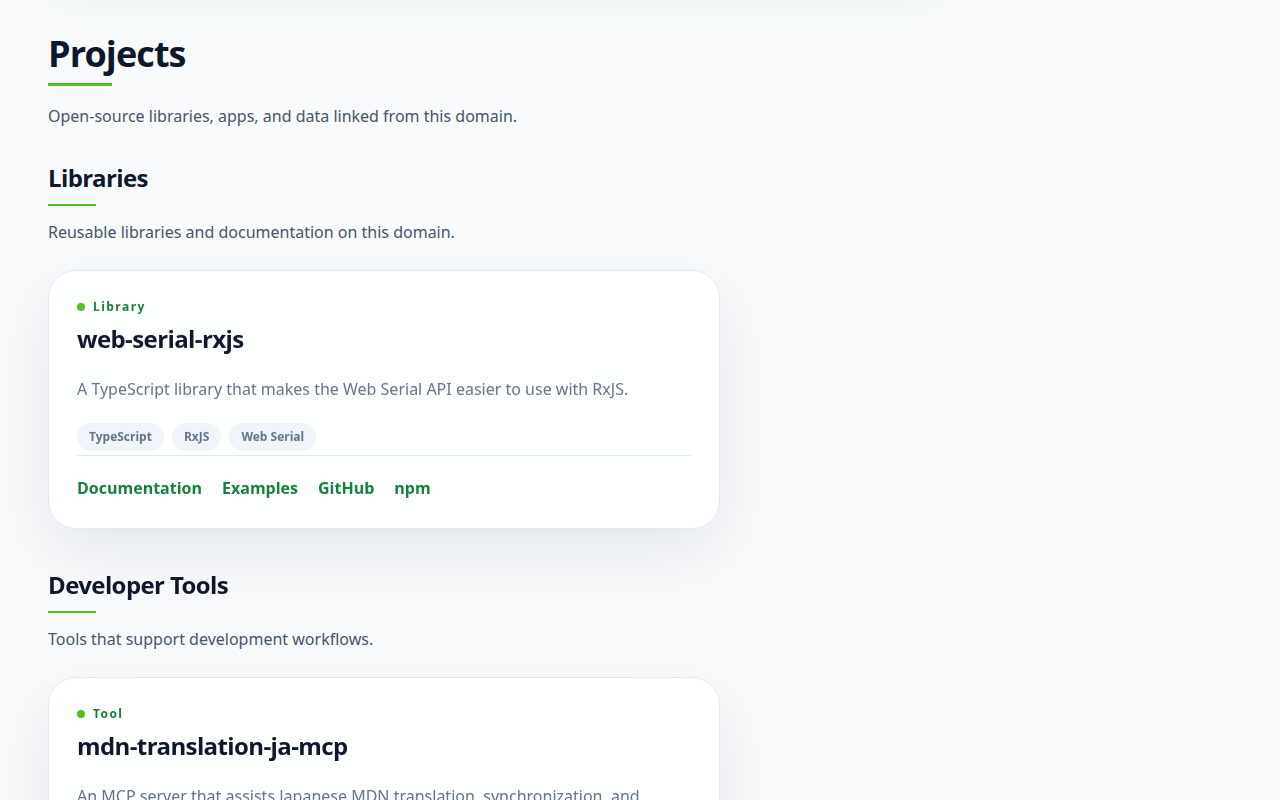
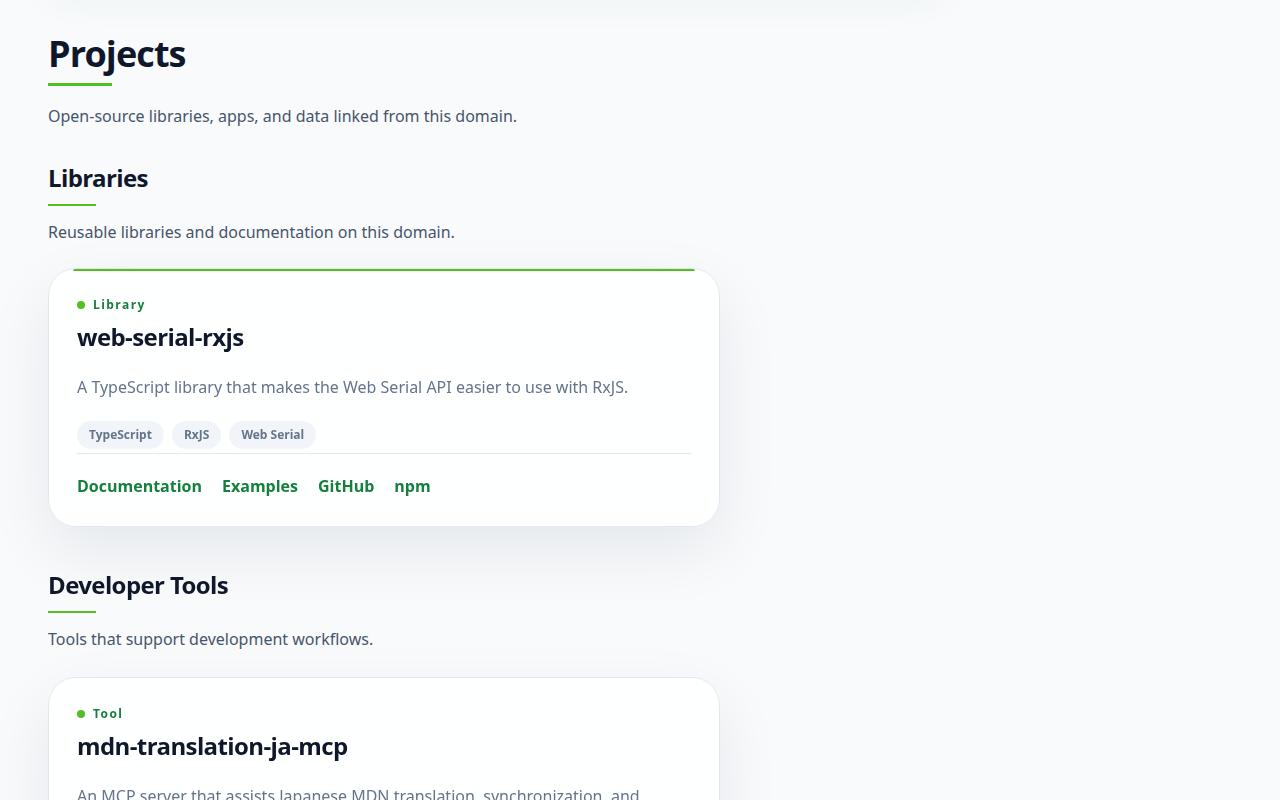
fix(site): retake card hover screenshot in actual hover state (#82)
- Retook site-1280px-card-hover.png with card properly hovered
- Shows green accent line (inset left-6/right-6) and hover transform
- Updated PR-86-PLAN-A.md with latest SHA (8b2dd99)
- Documented nav tap target and arrow rendering fixes

diff --git a/screenshots/PR-86-PLAN-A.md b/screenshots/PR-86-PLAN-A.md
@@ -2,7 +2,7 @@
 
 Implementation of Plan A header redesign and decorative brand accent usage (#82).
 
-## Latest Implementation (f1a4dd8)
+## Latest Implementation (8b2dd99)
 
 ### 375px Mobile
 - **site-375px.png**: Full page view showing Plan A header (h-14, 56px height), decorative accents
@@ -10,7 +10,7 @@ Implementation of Plan A header redesign and decorative brand accent usage (#82)
 
 ### 1280px Desktop  
 - **site-1280px.png**: Full page view showing Plan A header (sm:h-16, 64px height), all decorative elements
-- **site-1280px-card-hover.png**: Project card hover state with green accent line (inset left-6/right-6)
+- **site-1280px-card-hover.png**: Project card in actual hover state with green accent line (inset left-6/right-6)
 
 ## Key Features Visible
 
@@ -19,8 +19,9 @@ Implementation of Plan A header redesign and decorative brand accent usage (#82)
 - PNG face logo at 28×28px (green glasses + brown nose)
 - Wordmark "gurezo.net" (text-base font-semibold)
 - Nav links with proper hierarchy (text-sm/[15px] font-medium)
+- Nav links: inline-flex items-center for proper min-h-11 tap targets
 - 1px border-b divider (no accent colors in header)
-- GitHub link with ↗ external indicator
+- GitHub link with ↗ external indicator (text rendering, not emoji)
 
 ### Decorative Accents (#54BF22 / #C68442)
 - ✅ Hero h1: 3px green underline
